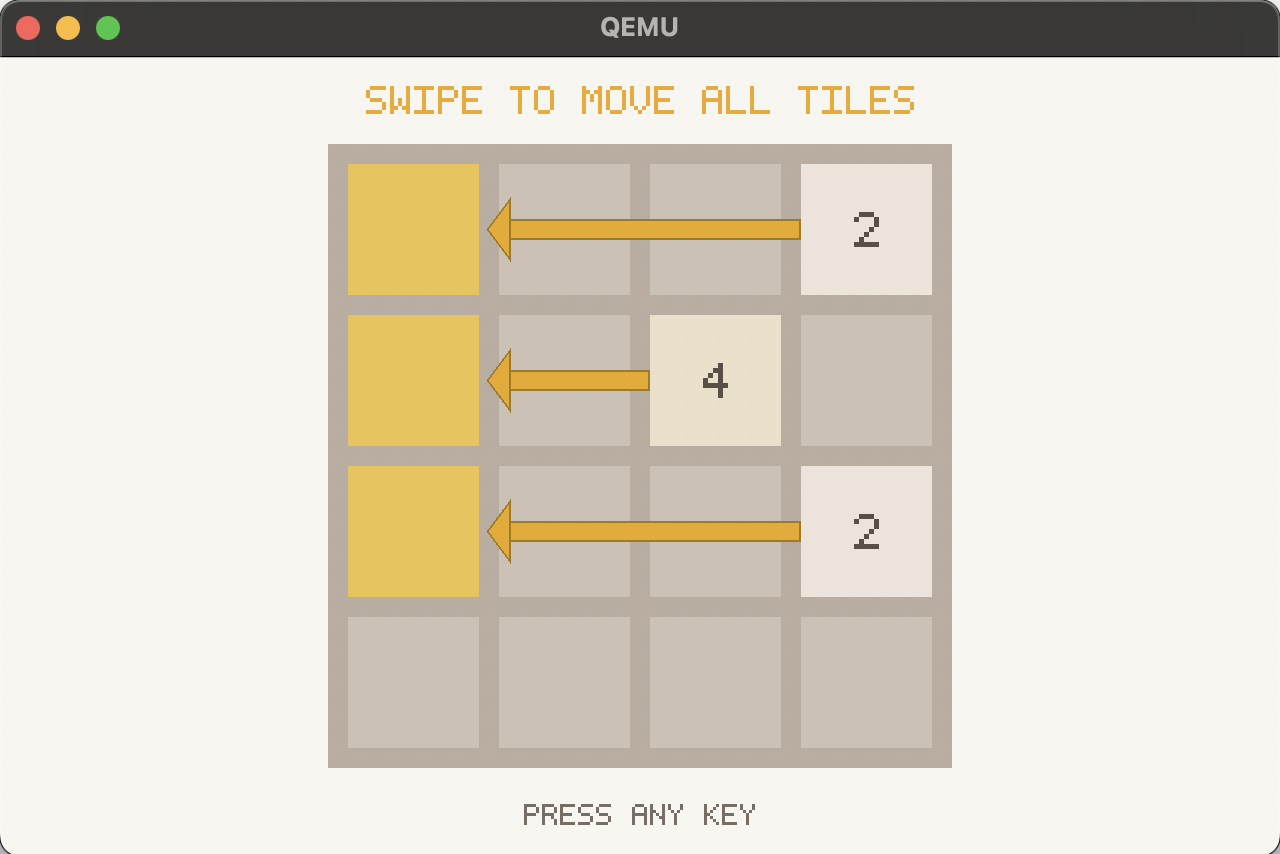
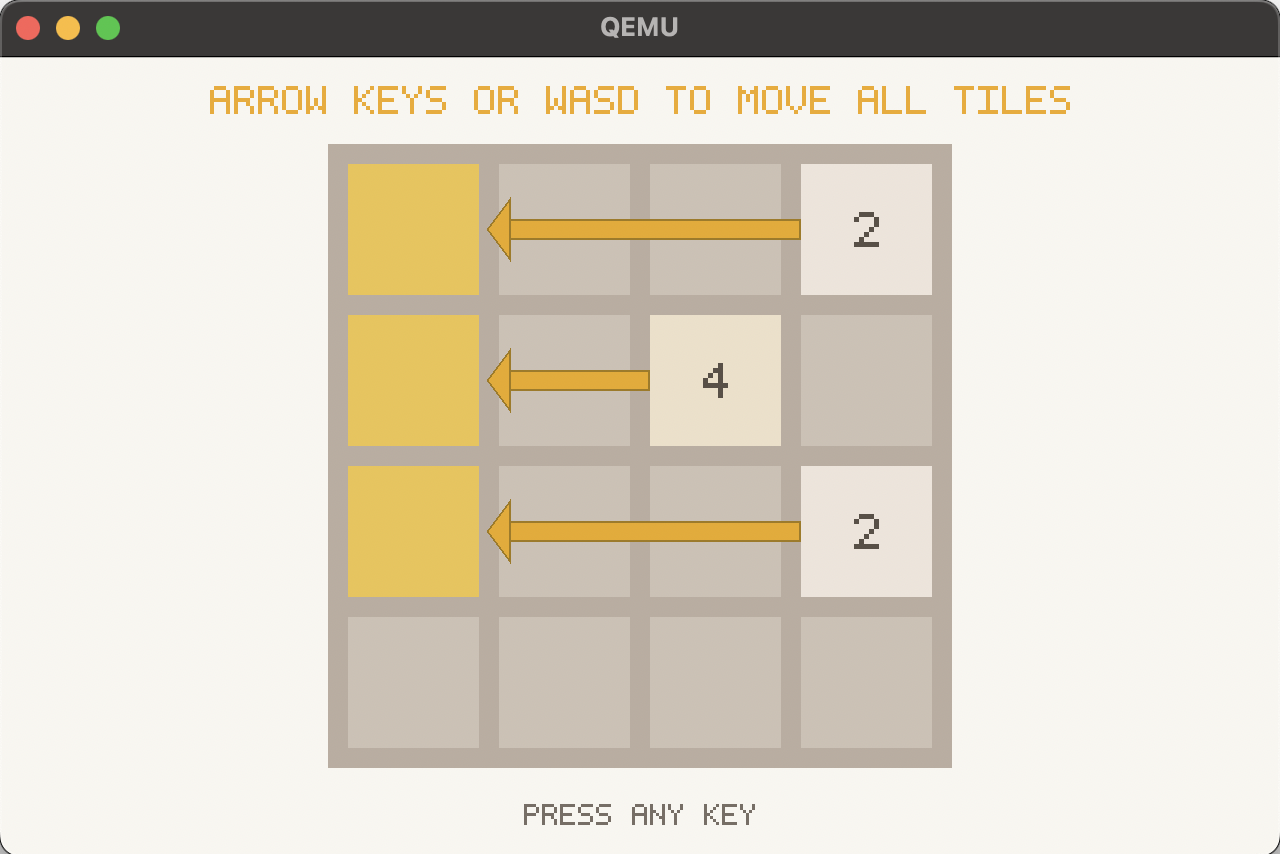
Update tutorial screen

Changed region(s): [[0.1562, 0.0913, 0.7188, 0.1522], [0.75, 0.0913, 0.8438, 0.1522]]

diff --git a/src/ui/ui_tutorial_scene.c b/src/ui/ui_tutorial_scene.c
@@ -218,7 +218,7 @@ VOID ui_render_tutorial_scene(UiContext *ctx, UINTN frame_index) {
     TutorialLayout layout = ui_make_grid_layout(ctx, UI_BOARD_SCALE_PERCENT, 4);
 
     static const TutorialFrame frames[] = {
-        {L"SWIPE TO MOVE ALL TILES", 0, UI_TUTORIAL_TITLE_Y, UI_TUTORIAL_TITLE_SCALE_MOVE, render_frame_move},
+        {L"ARROW KEYS OR WASD TO MOVE ALL TILES", 0, UI_TUTORIAL_TITLE_Y, UI_TUTORIAL_TITLE_SCALE_MOVE, render_frame_move},
         {L"WHEN TWO TILES WITH SAME NUMBER TOUCH THEY MERGE", 0, UI_TUTORIAL_TITLE_Y, UI_TUTORIAL_TITLE_SCALE_MERGE, render_frame_merge},
         {L"JOIN THE NUMBERS AND GET TO THE 2048 TILE!", 0, UI_TUTORIAL_TITLE_Y, UI_TUTORIAL_TITLE_SCALE_GOAL, render_frame_goal}
     };
